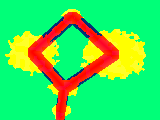
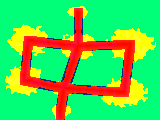
Gruta: 5 salões de caça interligados
Claude-Session: https://claude.ai/code/session_01DxMENvJSpBJLKVoAtLL83c

diff --git a/mapas/Mapa_GrutaArcoVermelho/gruta_arco.js b/mapas/Mapa_GrutaArcoVermelho/gruta_arco.js
@@ -1,6 +1,6 @@
 /* ---------- Gruta do Arco Vermelho (mapa 'ga') — caverna (lugar de dentro) do Acampamento dos Nômades (nd) ----------
-   Uma caverna de rocha vermelha atrás do arco de pedra: a galeria vermelha da entrada e quatro salões largos para caçar
-   (o Salão das Pedras, o Salão do Eco, a Fenda Funda e o Covil Arenoso), ligados por túneis.
+   Uma caverna de arenito atrás da entrada de areia: a entrada, a galeria e CINCO salões largos para caçar (Oeste, das
+   Pedras, Central, Leste e Sudeste), ligados entre si por túneis largos, e a Câmara do Fundo.
    Entrada e saída: a porta do arco de pedra (rock_arch), no Vale das Areias Vermelhas, no Acampamento leva para cá (chega em (60, 115)); a saída é a borda sul (colunas 56-63),
    que volta para a frente da porta. Lugar de dentro: tamanho livre (160 × 120).
    Chão: pintor por pixel de caverna (o mesmo nas duas cavernas do Acampamento), espelhado em ga_floor.gdshader.
@@ -18,11 +18,11 @@ function redArchCave(){
  const S=new Array(W*H).fill(0),Z=new Array(W*H).fill(0),ents=[],dark=[];
  const fx={dust:[],sand:[],fire:[],lamp:[],glint:[]};
  const put=(cv,x,ybase,lb)=>{const e={img:cv,x:Math.round(x),y:ybase,z:ybase-cv.height+2,sw:cv.width,sh:cv.height};if(lb)e.lb=lb;ents.push(e)};
- const zn=['Gruta do Arco Vermelho','Entrada da Gruta','Galeria','Salão Oeste','Salão Leste','Câmara do Fundo'];
+ const zn=['Gruta do Arco Vermelho','Entrada da Gruta','Galeria','Salão Oeste','Salão das Pedras','Salão Central','Salão Leste','Salão Sudeste','Câmara do Fundo'];
  /* ===== grade: rocha em tudo, os salões e os túneis são escavados ===== */
  const TY=new Uint8Array(W*H).fill(3),SL=new Uint8Array(W*H);
- const HALLS=[[60,110,10,6,1,0],[64,88,16,8,2,0],[32,52,26,20,3,0],[114,54,32,24,4,0],[72,16,10,7,5,0]];   /* [x, y, rx, ry, zona, lajes] */
- const TUN=[[60,116,60,110,4],[60,110,64,88,4],[64,88,32,52,4.5],[64,88,114,54,4.5],[32,52,72,16,3.6],[114,54,72,16,3.6]];       /* túneis entre os salões: [x0, y0, x1, y1, largura] */
+ const HALLS=[[60,110,10,6,1,0],[64,88,14,7,2,0],[24,80,18,14,3,0],[28,40,20,15,4,0],[78,46,18,13,5,0],[130,44,22,16,6,0],[124,92,22,14,7,0],[78,12,10,6,8,0]];   /* [x, y, rx, ry, zona, lajes] */
+ const TUN=[[60,116,60,110,4],[60,110,64,88,4],[64,88,24,80,4],[24,80,28,40,4],[28,40,78,46,4],[64,88,78,46,4],[78,46,130,44,4],[130,44,124,92,4],[64,88,124,92,4],[78,46,78,12,3.4]];       /* túneis entre os salões: [x0, y0, x1, y1, largura] */
  for(let y=0;y<H;y++)for(let x=0;x<W;x++){const X=x*16,Y=y*16;
   for(const [hx,hy,rx,ry,zz,sl] of HALLS){const e=Math.hypot((x-hx)/rx,(y-hy)/ry)+(vn(X,Y,46,110)-.5)*.42;if(e<1){TY[y*W+x]=0;Z[y*W+x]=zz;if(sl&&e<.86)SL[y*W+x]=1}}}
  for(const [ax,ay,bx,by,w] of TUN){const n=Math.ceil(Math.hypot(bx-ax,by-ay)*2);for(let s2=0;s2<=n;s2++){const x=ax+(bx-ax)*s2/n,y=ay+(by-ay)*s2/n,r=w+(vn(x*16,y*16,60,110+1)-.5)*1.4;
@@ -109,12 +109,11 @@ function redArchCave(){
  const rim=k=>(x,y)=>{const h=HALLS[k],e=Math.hypot((x-h[0])/h[2],(y-h[1])/h[3]);return e>.62&&e<1.1};
  /* Entrada: acampamento encostado na parede */
  fire(55,109);aNear('goods',53,106,{});torch(67,107,{flip:true});
- /* rochedos só colados na parede, meio livre */
- for(const [k,sd,n] of[[1,515,1],[2,520,5],[3,530,6],[4,540,1]])aScat(['rock_m','rock_tall'],n,sd,(x,y)=>{const h=HALLS[k],e=Math.hypot((x-h[0])/h[2],(y-h[1])/h[3]);return e>.85&&e<1.05},{fit:1,br:2,road:0});
- torch(52,85);torch(76,85,{flip:true});
- torch(14,40);torch(32,34);torch(50,40,{flip:true});torch(12,62);torch(52,64,{flip:true});
- torch(88,38);torch(114,32);torch(140,38,{flip:true});torch(86,66);torch(142,68,{flip:true});
- torch(66,12);torch(78,12,{flip:true});
+ /* 5 salões de caça (3 a 7): meio vazio; rochedos só colados na parede e duas tochas no alto de cada um */
+ for(let k=3;k<=7;k++){const h=HALLS[k];
+  aScat(['rock_m','rock_tall'],3,500+k*10,(x,y)=>{const e=Math.hypot((x-h[0])/h[2],(y-h[1])/h[3]);return e>.85&&e<1.05},{fit:1,br:2,road:0});
+  torch(Math.round(h[0]-h[2]*.6),Math.round(h[1]-h[3]*.6));torch(Math.round(h[0]+h[2]*.6),Math.round(h[1]-h[3]*.6),{flip:true})}
+ torch(55,85);torch(73,85,{flip:true});torch(78,8);
  /* poeira no ar e areia escorrendo do teto */
  for(let k=0;k<90;k++){const x=4+hq(k,61)*(W-8)|0,y=4+hq(k,62)*(H-8)|0;if(F[y*W+x])fx.dust.push([x*T+8,y*T+8,hq(k,63)*6.28])}
  for(let k=0;k<200&&fx.sand.length<16;k++){const x=4+hq(k,64)*(W-8)|0,y=4+hq(k,65)*(H-8)|0;if(F[y*W+x]&&!F[(y-1)*W+x])fx.sand.push([x*T+8,y*T-4,hq(k,66)*6.28])}

diff --git a/visualizador_ferramentas/gera_cavernas.py b/visualizador_ferramentas/gera_cavernas.py
@@ -125,22 +125,21 @@ TEMPLO['SLB'] = 'id<.33?112:id<.66?100:122'
 
 GRUTA = dict(
  ID='ga', W=160, H=120, CH=115, FN='redArchCave', NOME='Gruta do Arco Vermelho', PORTA='do arco de pedra (rock_arch), no Vale das Areias Vermelhas,',
- DESC='''   Uma caverna de rocha vermelha atrás do arco de pedra: a galeria vermelha da entrada e quatro salões largos para caçar
-   (o Salão das Pedras, o Salão do Eco, a Fenda Funda e o Covil Arenoso), ligados por túneis.''',
- ZN="['Gruta do Arco Vermelho','Entrada da Gruta','Galeria','Salão Oeste','Salão Leste','Câmara do Fundo']",
- HALLS="[[60,110,10,6,1,0],[64,88,16,8,2,0],[32,52,26,20,3,0],[114,54,32,24,4,0],[72,16,10,7,5,0]]",
- TUN="[[60,116,60,110,4],[60,110,64,88,4],[64,88,32,52,4.5],[64,88,114,54,4.5],[32,52,72,16,3.6],[114,54,72,16,3.6]]",
+ DESC='''   Uma caverna de arenito atrás da entrada de areia: a entrada, a galeria e CINCO salões largos para caçar (Oeste, das
+   Pedras, Central, Leste e Sudeste), ligados entre si por túneis largos, e a Câmara do Fundo.''',
+ ZN="['Gruta do Arco Vermelho','Entrada da Gruta','Galeria','Salão Oeste','Salão das Pedras','Salão Central','Salão Leste','Salão Sudeste','Câmara do Fundo']",
+ HALLS="[[60,110,10,6,1,0],[64,88,14,7,2,0],[24,80,18,14,3,0],[28,40,20,15,4,0],[78,46,18,13,5,0],[130,44,22,16,6,0],[124,92,22,14,7,0],[78,12,10,6,8,0]]",
+ TUN="[[60,116,60,110,4],[60,110,64,88,4],[64,88,24,80,4],[24,80,28,40,4],[28,40,78,46,4],[64,88,78,46,4],[78,46,130,44,4],[130,44,124,92,4],[64,88,124,92,4],[78,46,78,12,3.4]]",
  SD=110, R0='[140,62,40]', R1='[162,78,48]', R2='[118,50,34]', R3='[178,96,60]',
  SLR='0', SLG='0', SLB='0',
  FR=96, FG=62, FB=46, VX='112*16+16', VY='14*16',
  OBJ=''' /* Entrada: acampamento encostado na parede */
  fire(55,109);aNear('goods',53,106,{});torch(67,107,{flip:true});
- /* rochedos só colados na parede, meio livre */
- for(const [k,sd,n] of[[1,515,1],[2,520,5],[3,530,6],[4,540,1]])aScat(['rock_m','rock_tall'],n,sd,(x,y)=>{const h=HALLS[k],e=Math.hypot((x-h[0])/h[2],(y-h[1])/h[3]);return e>.85&&e<1.05},{fit:1,br:2,road:0});
- torch(52,85);torch(76,85,{flip:true});
- torch(14,40);torch(32,34);torch(50,40,{flip:true});torch(12,62);torch(52,64,{flip:true});
- torch(88,38);torch(114,32);torch(140,38,{flip:true});torch(86,66);torch(142,68,{flip:true});
- torch(66,12);torch(78,12,{flip:true});''')
+ /* 5 salões de caça (3 a 7): meio vazio; rochedos só colados na parede e duas tochas no alto de cada um */
+ for(let k=3;k<=7;k++){const h=HALLS[k];
+  aScat(['rock_m','rock_tall'],3,500+k*10,(x,y)=>{const e=Math.hypot((x-h[0])/h[2],(y-h[1])/h[3]);return e>.85&&e<1.05},{fit:1,br:2,road:0});
+  torch(Math.round(h[0]-h[2]*.6),Math.round(h[1]-h[3]*.6));torch(Math.round(h[0]+h[2]*.6),Math.round(h[1]-h[3]*.6),{flip:true})}
+ torch(55,85);torch(73,85,{flip:true});torch(78,8);''')
 
 for d, pasta, arq in [(TEMPLO, 'Mapa_TemploSoterrado', 'templo_soterrado.js'), (GRUTA, 'Mapa_GrutaArcoVermelho', 'gruta_arco.js')]:
     d = dict(d); d['HELPER'] = HELPER

diff --git a/mapas/Mapa_GrutaArcoVermelho/MAPA.md b/mapas/Mapa_GrutaArcoVermelho/MAPA.md
@@ -29,10 +29,13 @@
 |---|---|---|
 | 0 | Gruta do Arco Vermelho (túneis) | |
 | 1 | Entrada da Gruta (60, 110) | acampamento dos exploradores encostado na parede |
-| 2 | Galeria (64, 88) | túnel largo ligando os salões |
-| 3 | Salão Oeste (32, 52), **caça** | ~52 × 40 tiles, e **vazio** no meio; só tochas e rochedos colados na parede |
-| 4 | Salão Leste (114, 54), **caça** | ~64 × 48 tiles, enorme e vazio no meio |
-| 5 | Câmara do Fundo (72, 16) | a câmara do marco da gruta (vai receber o poço de areia da folha nova) |
+| 2 | Galeria (64, 88) | encontro dos túneis |
+| 3 | Salão Oeste (24, 80), **caça** | ~36 × 28 tiles, vazio no meio |
+| 4 | Salão das Pedras (28, 40), **caça** | ~40 × 30 tiles |
+| 5 | Salão Central (78, 46), **caça** | ~36 × 26 tiles |
+| 6 | Salão Leste (130, 44), **caça** | ~44 × 32 tiles |
+| 7 | Salão Sudeste (124, 92), **caça** | ~44 × 28 tiles |
+| 8 | Câmara do Fundo (78, 12) | a câmara do marco da gruta (vai receber o poço de areia da folha nova) |
 
 ## Planta (pedido do Ricardo: pouca poluição)
 
@@ -46,9 +49,12 @@ A caverna é escura: 1 fogueira (raio 140) e as lanternas (raio 120) iluminam os
 ## Destinos sugeridos para o teleporte
 
 - **Entrada da Gruta (60, 112)**
-- **Salão Leste (114, 54)**
+- **Salão Leste (130, 44)**
 
 ## Arte
 
 Só peças prontas do kit (`exemplo_deserto/arte/`), em `arte/`: rock_red, rock_red2, rock_s, rock_m, rock_tall, rock_big, pebbles, goods, jar, firepit, lamppost. Registro: `pecas_folha_ruinas.json` e
 `pecas_folha_caravanas.json` (copiados do kit).
+
+Os 5 salões de caça são ligados entre si por túneis largos (dá para circular sem voltar à entrada). Em cada um: só 2 tochas
+e até 3 rochedos colados na parede.
